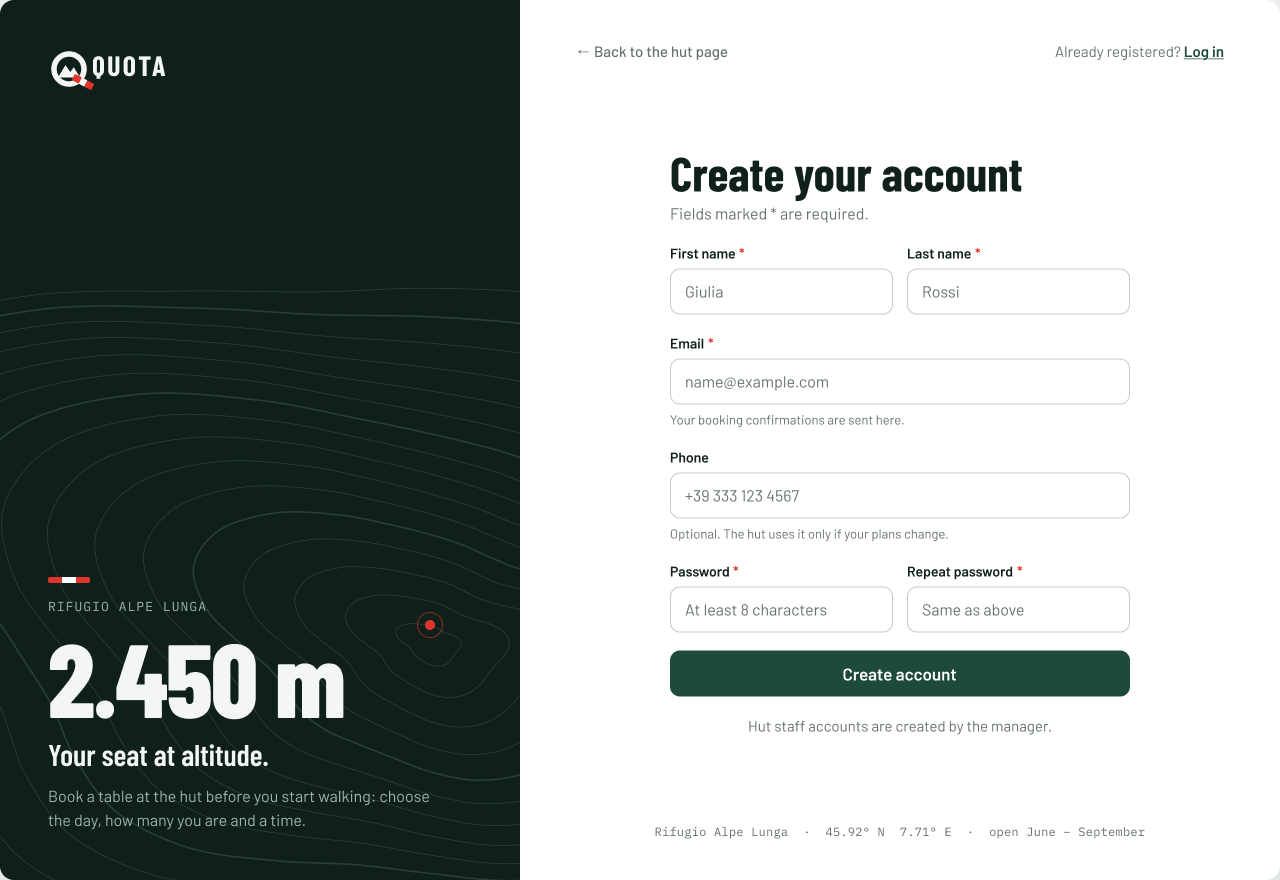
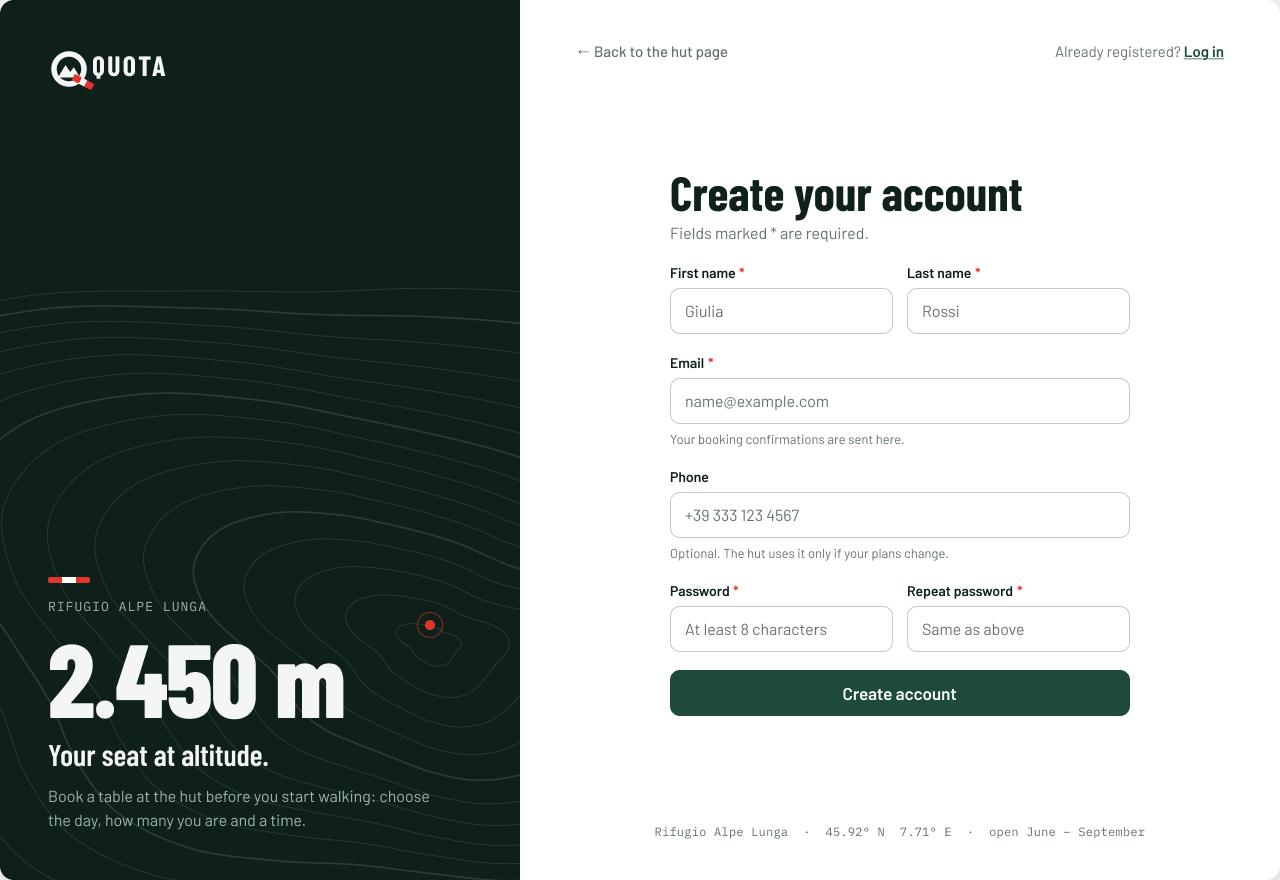
docs: remove the staff accounts sentence from the sign-up mockup (MH-45)
"Hut staff accounts are created by the manager." is not useful to a
hiker signing up. Removed from the desktop and phone sign-up screens, in
Figma and in the repo.

Changed region(s): [[0.5, 0.1841, 0.9062, 0.8284], [0.6875, 0.2761, 0.7812, 0.3682]]

diff --git a/docs/mockups/login/phone.html b/docs/mockups/login/phone.html
@@ -178,7 +178,7 @@ const signup = (f) => `${status()}${urlbar("/signup")}${heroCompact("Already reg
   ${field({ label: "Phone", ph: "+39 333 123 4567", help: "Optional. The hut uses it only if your plans change.", ...f.phone })}
   ${field({ label: "Password", req: 1, ph: "At least 8 characters", ...f.pw })}${field({ label: "Repeat password", req: 1, ph: "Same password again", ...f.pw2 })}
   <button class="btn primary" style="margin-top:6px">Create account</button>
-  <div class="alt-line">Hut staff accounts are created by the manager.</div>${foot}</div>`;
+  ${foot}</div>`;
 
 const LINKS = { hiker: ["The hut", "Book a table"], staff: ["The hut", "Slots & tables"] };
 const BURGER = `<svg width="22" height="22" viewBox="0 0 22 22" stroke="#10201A" stroke-width="2" stroke-linecap="round"><path d="M3 6h16M3 11h16M3 16h16"/></svg>`;
